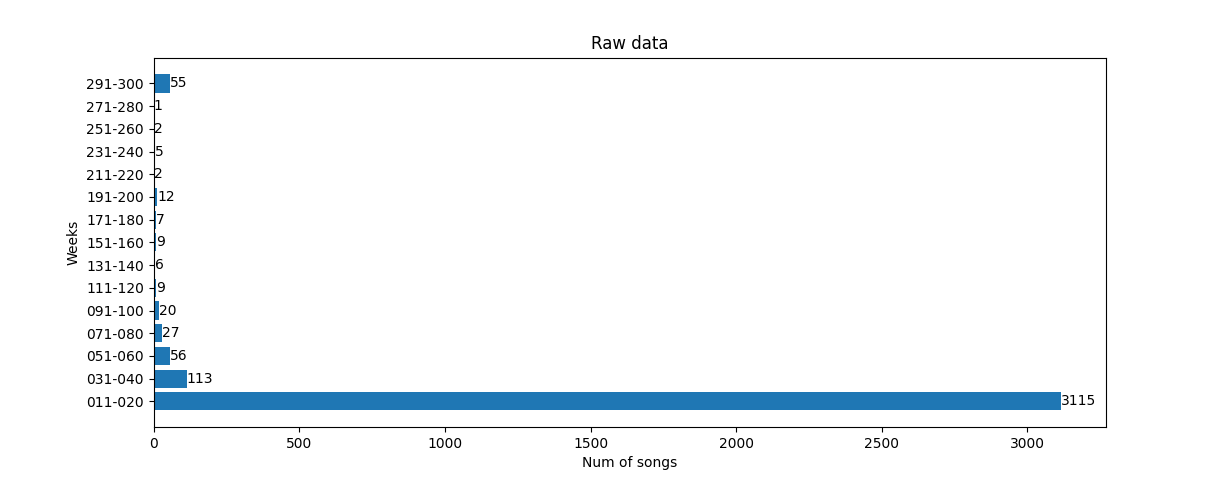
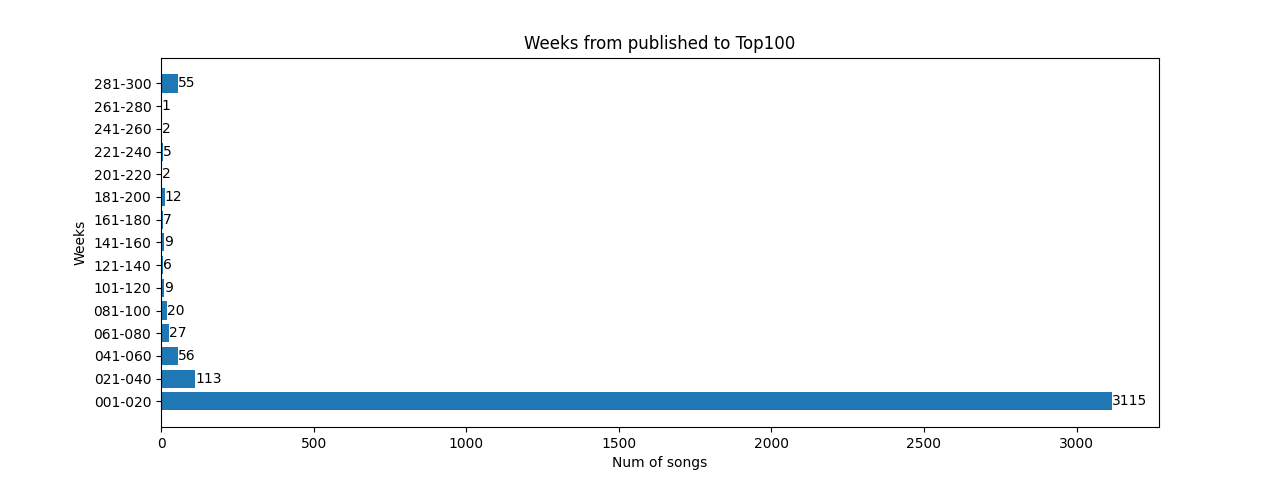
fix ylabel's bug

diff --git a/publish.py b/publish.py
@@ -74,9 +74,9 @@ num_songs_in_weeks = [0 for i in range(20, 301, 20)]
 for w in from_0to100_list:
     num_songs_in_weeks[(w - 1) // 20] += 1
 
-x = np.array(['{:03d}-{:03d}'.format(i-9, i) for i in range(20, 301, 20)])
+x = np.array(['{:03d}-{:03d}'.format(i-19, i) for i in range(20, 301, 20)])
 y = np.array(num_songs_in_weeks)
 
-BarChart_h(x, y, 'Raw data', 'Num of songs', 'Weeks')
+BarChart_h(x, y, 'Weeks from published to Top100', 'Num of songs', 'Weeks')
 
         
